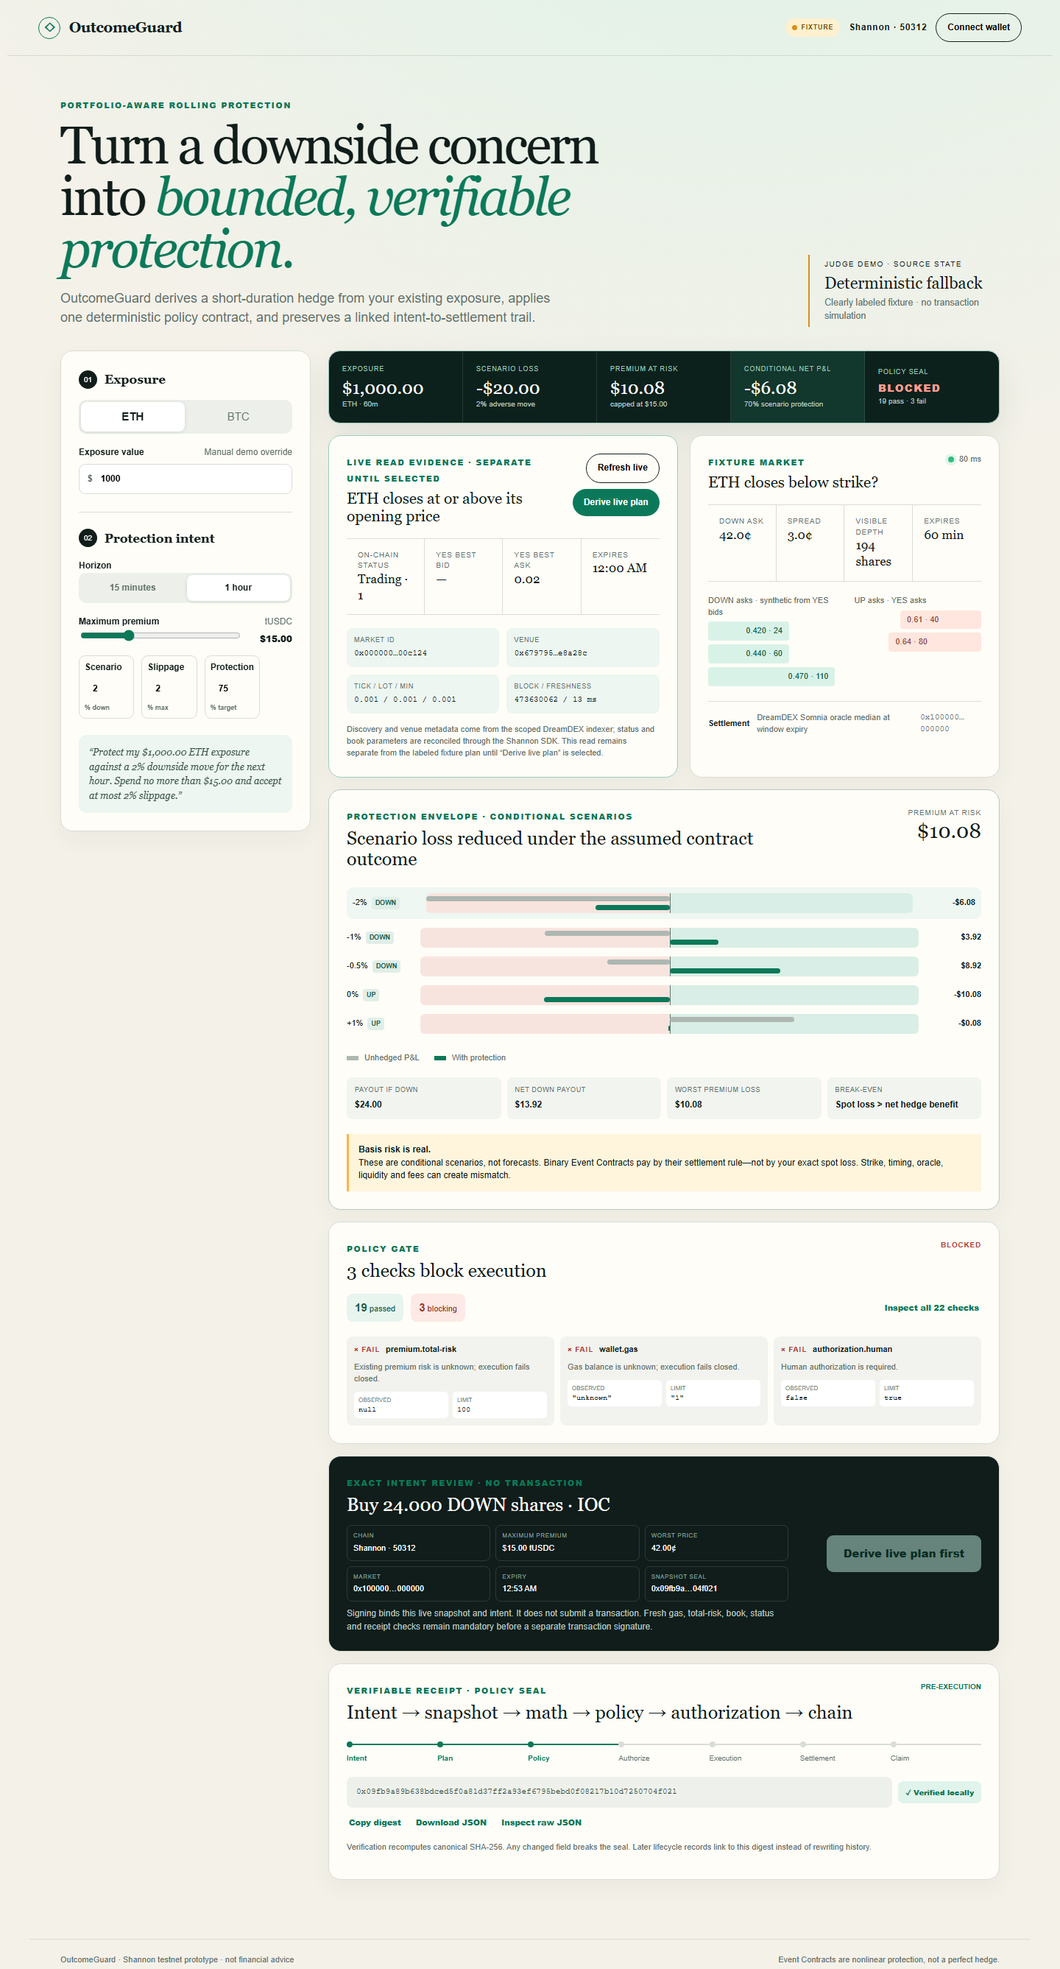
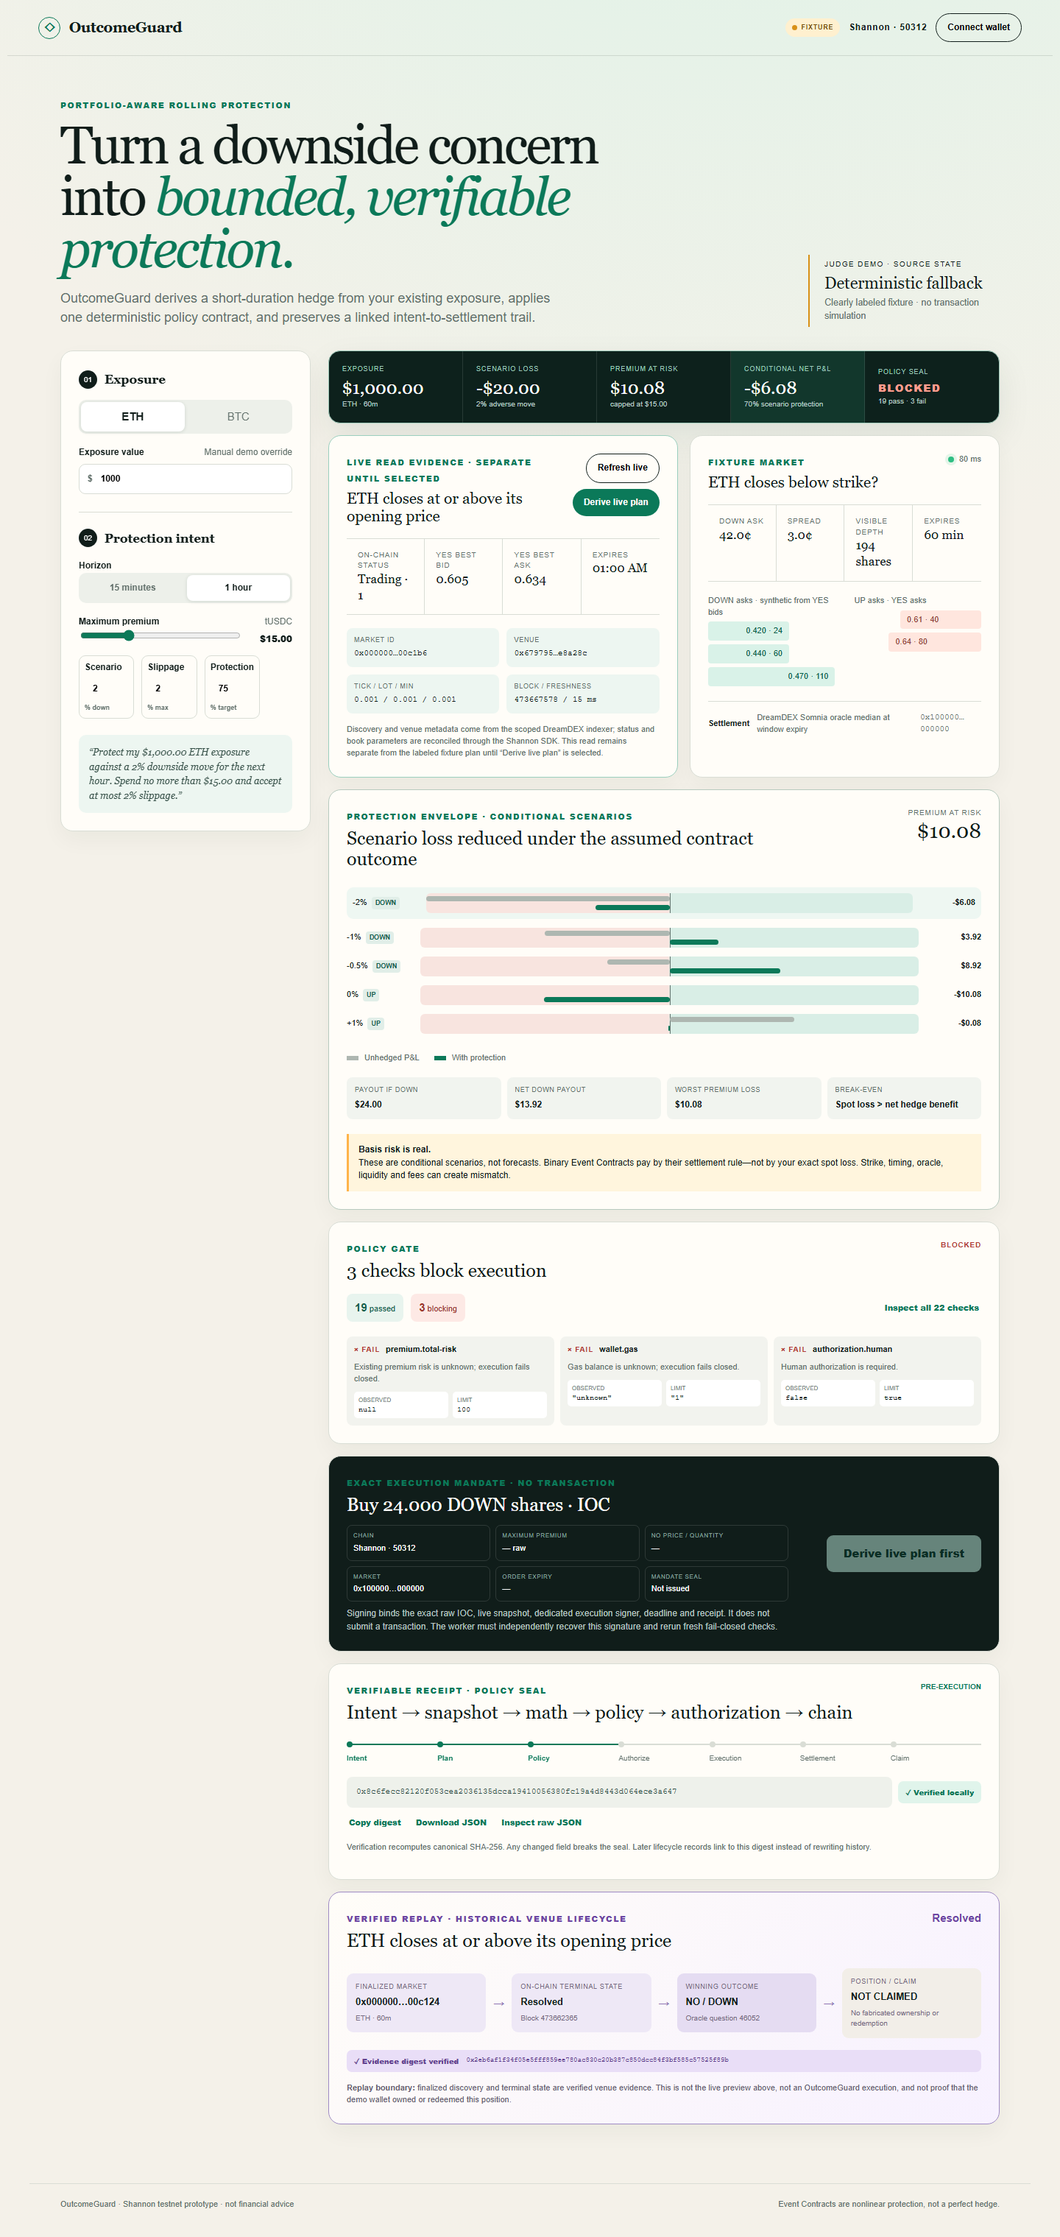
feat: add honest verified settlement replay

diff --git a/apps/web/app/page.tsx b/apps/web/app/page.tsx
@@ -10,6 +10,7 @@ type LiveSnapshot = {
   parameters: { tickSize: string; lotSize: string; minQuantity: string };
 };
 type LiveResponse = { source: "live" | "unavailable"; snapshots?: LiveSnapshot[]; error?: string };
+type SettledReplay = { label: "VERIFIED_REPLAY"; capturedAt: string; blockNumber: string; market: { marketId: string; asset: string; intervalSec: number; expiry: number; question: string; oracleQuestionId: string }; terminalState: { status: string; winningOutcome: "YES" | "NO"; portfolioMeaning: "UP" | "DOWN" }; positionEvidence: { status: string; reason: string }; redemptionEvidence: { status: string; reason: string }; integrity: { digest: string }; verification: { valid: true; computedDigest: string } };
 type EthereumProvider = { request(args: { method: string; params?: unknown[] }): Promise<unknown> };
 declare global { interface Window { ethereum?: EthereumProvider } }
 
@@ -43,6 +44,7 @@ export default function Home() {
   const [livePlanMarketId, setLivePlanMarketId] = useState<string>();
   const [showAllPolicies, setShowAllPolicies] = useState(false);
   const [showReceipt, setShowReceipt] = useState(false);
+  const [settledReplay, setSettledReplay] = useState<SettledReplay>();
 
   const refreshLive = async () => {
     setLiveLoading(true);
@@ -54,7 +56,7 @@ export default function Home() {
     } finally { setLiveLoading(false); }
   };
 
-  useEffect(() => { void refreshLive(); }, []);
+  useEffect(() => { void refreshLive(); void fetch("/api/replay").then((response) => response.json()).then((value) => setSettledReplay(value as SettledReplay)); }, []);
 
   useEffect(() => {
     const controller = new AbortController();
@@ -178,6 +180,7 @@ export default function Home() {
         <section className="authorize card"><div><span>EXACT EXECUTION MANDATE · NO TRANSACTION</span><h2>Buy {data?.plan.normalizedShares.toFixed(3) ?? "—"} DOWN shares · IOC</h2><div className="orderReview"><span><small>Chain</small>Shannon · 50312</span><span><small>Maximum premium</small>{data?.authorizationChallenge?.mandate.maximumPremiumRaw ?? "—"} raw</span><span><small>NO price / quantity</small>{data?.authorizationChallenge ? `${data.authorizationChallenge.mandate.outcomePriceRaw} / ${data.authorizationChallenge.mandate.quantityRaw}` : "—"}</span><span><small>Market</small>{data ? short(data.market.marketId) : "—"}</span><span><small>Order expiry</small>{data?.authorizationChallenge ? new Date(Number(BigInt(data.authorizationChallenge.mandate.orderExpiryNs) / 1_000_000n)).toLocaleTimeString([], { hour: "2-digit", minute: "2-digit", second: "2-digit" }) : "—"}</span><span><small>Mandate seal</small>{data?.authorizationChallenge ? short(data.authorizationChallenge.mandateDigest) : "Not issued"}</span></div><p>Signing binds the exact raw IOC, live snapshot, dedicated execution signer, deadline and receipt. It does not submit a transaction. The worker must independently recover this signature and rerun fresh fail-closed checks.</p></div><div className="authorizationActions"><button onClick={authorize} disabled={loading || data?.mode !== "live" || !data?.authorizationChallenge || authorizableFailures.length > 0}>{signature ? "Exact mandate signed ✓" : data?.mode !== "live" ? "Derive live plan first" : !data?.authorizationChallenge ? "Worker signer not configured" : "Review & sign exact mandate"}</button>{executionBundle && <button className="secondaryAction" onClick={downloadBundle}>Download signed bundle</button>}</div></section>
 
         <section className="card receipt"><div className="cardHead"><div><span>VERIFIABLE RECEIPT · POLICY SEAL</span><h2>Intent → snapshot → math → policy → authorization → chain</h2></div><b>{signature ? "AUTHORIZED" : data ? "PRE-EXECUTION" : "SEALING"}</b></div><div className="timeline"><i className={data ? "done" : ""}>Intent</i><i className={data ? "done" : ""}>Plan</i><i className={data ? "done" : ""}>Policy</i><i className={signature ? "done" : ""}>Authorize</i><i>Execution</i><i>Settlement</i><i>Claim</i></div><div className="digestRow"><code className="digest">{data?.receipt.integrity.digest ?? "Computing deterministic receipt…"}</code><span className={`verifiedBadge ${data ? "" : "pending"}`}>{data ? "✓ Verified locally" : "Verification pending"}</span></div><div className="receiptActions"><button className="textButton" onClick={() => void copyDigest()} disabled={!data}>Copy digest</button><button className="textButton" onClick={downloadReceipt} disabled={!data}>Download JSON</button><button className="textButton" onClick={() => setShowReceipt((current) => !current)} aria-expanded={showReceipt} disabled={!data}>{showReceipt ? "Close raw view" : "Inspect raw JSON"}</button></div>{showReceipt && <pre className="rawReceipt">{JSON.stringify(data?.receipt, null, 2)}</pre>}<p>Verification recomputes canonical SHA-256. Any changed field breaks the seal. Later lifecycle records link to this digest instead of rewriting history.</p></section>
+        <section className="card settledReplay"><div className="cardHead"><div><span>VERIFIED REPLAY · HISTORICAL VENUE LIFECYCLE</span><h2>{settledReplay?.market.question ?? "Loading finalized DreamDEX evidence…"}</h2></div><b>{settledReplay?.terminalState.status ?? "READING"}</b></div>{settledReplay && <><div className="replayFlow"><div><small>Finalized market</small><strong>{short(settledReplay.market.marketId)}</strong><span>{settledReplay.market.asset} · {settledReplay.market.intervalSec / 60}m</span></div><i>→</i><div><small>On-chain terminal state</small><strong>{settledReplay.terminalState.status}</strong><span>Block {settledReplay.blockNumber}</span></div><i>→</i><div className="replayOutcome"><small>Winning outcome</small><strong>{settledReplay.terminalState.winningOutcome} / {settledReplay.terminalState.portfolioMeaning}</strong><span>Oracle question {settledReplay.market.oracleQuestionId}</span></div><i>→</i><div className="notClaimed"><small>Position / claim</small><strong>NOT CLAIMED</strong><span>No fabricated ownership or redemption</span></div></div><div className="replaySeal"><span>✓ Evidence digest verified</span><code>{settledReplay.integrity.digest}</code></div><p><b>Replay boundary:</b> finalized discovery and terminal state are verified venue evidence. This is not the live preview above, not an OutcomeGuard execution, and not proof that the demo wallet owned or redeemed this position.</p></>}</section>
       </div>
     </section>
     <footer className="siteFooter"><span>OutcomeGuard · Shannon testnet prototype · not financial advice</span><span>Event Contracts are nonlinear protection, not a perfect hedge.</span></footer>

diff --git a/apps/web/app/globals.css b/apps/web/app/globals.css
@@ -29,6 +29,8 @@ button:focus-visible,a:focus-visible,input:focus-visible,summary:focus-visible {
 .orderReview { display:grid;grid-template-columns:repeat(3,minmax(0,1fr));gap:7px;margin-top:14px }.orderReview span { min-width:0;padding:8px;border:1px solid #ffffff20;border-radius:7px;font-size:11px;font-variant-numeric:tabular-nums }.orderReview small { display:block;margin-bottom:3px;color:#8fa9a0;font-size:8px;text-transform:uppercase;letter-spacing:.08em }.authorizationActions { display:flex;min-width:210px;flex-direction:column;gap:8px }.authorizationActions button { width:100% }.authorizationActions .secondaryAction { background:transparent;color:var(--mint);border:1px solid #5a786e }
 .digestRow { display:grid;grid-template-columns:1fr auto;gap:8px;align-items:center }.verifiedBadge { color:#087454;background:#e0f4eb;padding:8px 10px;border-radius:7px;font-size:10px;font-weight:800;white-space:nowrap }.verifiedBadge.pending { color:#79520c;background:#fff0cf }.receiptActions { display:flex;gap:14px;align-items:center;margin-top:5px }.textButton:disabled { color:#89948f;cursor:not-allowed;text-decoration:none }.rawReceipt { max-height:380px;overflow:auto;padding:14px;border-radius:9px;background:#0e1d19;color:#bfe7d8;font:11px/1.5 monospace;white-space:pre-wrap;overflow-wrap:anywhere }
 .card,.summaryRail { transition:transform .2s ease,box-shadow .2s ease,opacity .2s ease }.card:hover { box-shadow:0 18px 44px rgba(18,39,32,.075) }
+.settledReplay { border-color:#9f8bc4;background:linear-gradient(135deg,#fffdf8,#f7f1ff) }.settledReplay .cardHead>div>span,.settledReplay .cardHead>b { color:#6d45a3 }.replayFlow { display:grid;grid-template-columns:1fr auto 1fr auto 1fr auto 1fr;gap:10px;align-items:center;margin:24px 0 }.replayFlow>div { min-width:0;padding:12px;border-radius:9px;background:#eee8f6 }.replayFlow small,.replayFlow span { display:block }.replayFlow small { color:#756a83;font-size:9px;text-transform:uppercase;letter-spacing:.08em }.replayFlow strong { display:block;margin:5px 0;font-size:13px;overflow:hidden;text-overflow:ellipsis }.replayFlow span { color:#756a83;font-size:10px }.replayFlow>i { color:#8c72b1;font-style:normal }.replayFlow .replayOutcome { background:#e5dcf2 }.replayFlow .notClaimed { background:#f2eee8 }.settledReplay>p { margin:0;color:#675d71;font-size:11px }
+.replaySeal { display:flex;align-items:center;gap:10px;margin:-8px 0 14px;padding:8px 10px;border-radius:7px;background:#e9def7;color:#62408f;font-size:10px;font-weight:800 }.replaySeal code { min-width:0;overflow:hidden;text-overflow:ellipsis;font-size:9px;font-weight:400 }
 @media (max-width:1100px) { .summaryRail{grid-template-columns:repeat(3,1fr)}.summaryRail>div:nth-child(3){border-right:0}.evidenceGrid{grid-template-columns:1fr}.outcomeFacts{grid-template-columns:1fr 1fr} }
-@media (max-width:520px) { nav{padding-inline:9px}.brand{font-size:14px;white-space:nowrap}.shield{width:21px;height:21px;margin-right:3px}.network{font-size:8px;white-space:nowrap}.sourcePill{display:inline-flex;padding:4px 6px;font-size:7px}.navMeta{font-size:9px;gap:5px}.navMeta .ghost{padding:8px 7px;font-size:9px}.summaryRail{grid-template-columns:1fr 1fr}.summaryRail>div{padding:13px}.summaryRail>div:nth-child(even){border-right:0}.summaryRail .verdict{grid-column:1/-1}.summaryRail strong{font-size:20px}.evidenceGrid{grid-template-columns:1fr}.liveActions{justify-content:flex-start}.cardHead{flex-direction:column}.outcomeFacts{grid-template-columns:1fr 1fr}.scenario{grid-template-columns:78px 1fr 62px}.policySummary{flex-wrap:wrap}.policySummary .textButton{margin-left:0;width:100%;text-align:left}.orderReview{grid-template-columns:1fr 1fr}.digestRow{grid-template-columns:1fr}.receiptActions{flex-wrap:wrap}.authorize{gap:18px}.authorizationActions{width:100%} }
+@media (max-width:520px) { nav{padding-inline:9px}.brand{font-size:14px;white-space:nowrap}.shield{width:21px;height:21px;margin-right:3px}.network{font-size:8px;white-space:nowrap}.sourcePill{display:inline-flex;padding:4px 6px;font-size:7px}.navMeta{font-size:9px;gap:5px}.navMeta .ghost{padding:8px 7px;font-size:9px}.summaryRail{grid-template-columns:1fr 1fr}.summaryRail>div{padding:13px}.summaryRail>div:nth-child(even){border-right:0}.summaryRail .verdict{grid-column:1/-1}.summaryRail strong{font-size:20px}.evidenceGrid{grid-template-columns:1fr}.liveActions{justify-content:flex-start}.cardHead{flex-direction:column}.outcomeFacts{grid-template-columns:1fr 1fr}.scenario{grid-template-columns:78px 1fr 62px}.policySummary{flex-wrap:wrap}.policySummary .textButton{margin-left:0;width:100%;text-align:left}.orderReview{grid-template-columns:1fr 1fr}.digestRow{grid-template-columns:1fr}.receiptActions{flex-wrap:wrap}.authorize{gap:18px}.authorizationActions{width:100%}.replayFlow{grid-template-columns:1fr}.replayFlow>i{transform:rotate(90deg);text-align:center} }
 @media (prefers-reduced-motion:reduce) { *,*::before,*::after { scroll-behavior:auto!important;animation-duration:.01ms!important;transition-duration:.01ms!important } }

diff --git a/tests/e2e/judge-flow.spec.ts b/tests/e2e/judge-flow.spec.ts
@@ -13,6 +13,9 @@ test("judge can compose and inspect bounded protection", async ({ page }) => {
   await expect(page.getByText("Basis risk is real.")).toBeVisible();
   await expect(page.getByText("PRE-EXECUTION")).toBeVisible();
   await expect(page.locator(".digest")).toContainText(/^0x[0-9a-f]{64}$/);
+  await expect(page.getByText(/VERIFIED REPLAY/)).toBeVisible();
+  await expect(page.locator(".settledReplay")).toContainText("NO / DOWN");
+  await expect(page.locator(".settledReplay")).toContainText("No fabricated ownership or redemption");
 });
 
 test("truth labels, policy drill-down, receipt inspection, and mobile width remain safe", async ({ page }) => {
@@ -37,4 +40,7 @@ test("health identifies network and honest mode", async ({ request }) => {
   const response = await request.get("/api/health");
   expect(response.ok()).toBe(true);
   await expect(response.json()).resolves.toMatchObject({ ok: true, chainId: 50312, network: "somnia-shannon" });
+  const replay = await request.get("/api/replay");
+  expect(replay.ok()).toBe(true);
+  await expect(replay.json()).resolves.toMatchObject({ label: "VERIFIED_REPLAY", terminalState: { status: "Resolved", winningOutcome: "NO" }, redemptionEvidence: { status: "NOT_PERFORMED" }, verification: { valid: true } });
 });

diff --git a/apps/web/app/api/replay/route.ts b/apps/web/app/api/replay/route.ts
@@ -1,0 +1,9 @@
+import replay from "../../../../../docs/evidence/verified-settled-replay.json";
+import { canonicalize, sha256 } from "@outcome-guard/receipt";
+
+export async function GET() {
+  const { integrity, ...payload } = replay;
+  const computedDigest = sha256(canonicalize(payload));
+  if (computedDigest.toLowerCase() !== integrity.digest.toLowerCase()) return Response.json({ error: "Verified replay integrity check failed" }, { status: 500 });
+  return Response.json({ ...replay, verification: { valid: true, computedDigest } }, { headers: { "cache-control": "public, max-age=300, immutable" } });
+}

diff --git a/README.md b/README.md
@@ -84,10 +84,11 @@ The repository contains a real **live-read** Shannon snapshot captured on 28 Aug
 - Deterministic plan from that book: [`docs/evidence/hedge-plan.json`](docs/evidence/hedge-plan.json)
 - Policy result: [`docs/evidence/policy-evaluation.json`](docs/evidence/policy-evaluation.json)
 - Pre-execution receipt: [`docs/evidence/pre-execution-receipt.json`](docs/evidence/pre-execution-receipt.json)
+- Verified terminal-market replay: [`docs/evidence/verified-settled-replay.json`](docs/evidence/verified-settled-replay.json)
 
 The latest captured market was ETH, one hour, Shannon chain `50312`, market ID ending `bcbe`, block `473363505`, and onchain status `Trading`. Market and plan checks passed; existing premium risk, gas balance, and human approval were unknown or absent, so execution correctly failed closed. See the full values in the linked evidence rather than relying on a summary.
 
-**No transaction, fill, reconciled position, settlement, or redemption is claimed yet.** The placeholder lifecycle files explicitly record `NOT_PERFORMED`: [`execution-receipt.json`](docs/evidence/execution-receipt.json) and [`settlement-receipt.json`](docs/evidence/settlement-receipt.json).
+The Judge Demo also shows a separately labeled historical venue lifecycle: ETH 1h market `…c124`, resolved on chain at captured block `473662365` with winning outcome `NO / DOWN`. It proves finalized-market discovery and terminal-state interpretation only. **No OutcomeGuard ownership, transaction, fill, reconciled position, or redemption is claimed yet.** The placeholder lifecycle files explicitly record `NOT_PERFORMED`: [`execution-receipt.json`](docs/evidence/execution-receipt.json) and [`settlement-receipt.json`](docs/evidence/settlement-receipt.json).
 
 ## 9. Receipt verification
 
@@ -152,7 +153,7 @@ npm run verify
 
 It composes lint, strict type checking, unit/property tests, production build, Playwright E2E, working-tree secret scanning, and dependency audit. Individual commands are in [`package.json`](package.json).
 
-**Checkpoint truth:** `npm run verify` passed locally on 28 August 2026: lint, strict workspace type checks, 25 Vitest tests, production builds, six Playwright checks across desktop and 390 px mobile, a 101-file working-tree secret scan, and an npm audit with zero known vulnerabilities. See [`docs/evidence/test-report.md`](docs/evidence/test-report.md).
+**Checkpoint truth:** `npm run verify` passed locally on 28 August 2026: lint, strict workspace type checks, 25 Vitest tests, production builds, six Playwright checks across desktop and 390 px mobile, a 106-file working-tree secret scan, and an npm audit with zero known vulnerabilities. See [`docs/evidence/test-report.md`](docs/evidence/test-report.md).
 
 ## 14. Security model
 

diff --git a/docs/evidence/test-report.md b/docs/evidence/test-report.md
@@ -1,6 +1,6 @@
 # Local release-gate report
 
-Date: 2026-08-28 17:40 UTC
+Date: 2026-08-28 17:55 UTC
 Environment: Windows, Node `v24.14.1`, npm `11.11.0`  
 Command: `npm run verify`
 
@@ -17,7 +17,7 @@ Command: `npm run verify`
 | Desktop judge flow | pass | 3 Playwright Chromium checks, 1440 px |
 | Mobile judge flow | pass | 3 Playwright Chromium checks, 390 px; overflow and reduced-motion assertions included |
 | Health endpoint checks | pass | both Playwright projects against the production server |
-| Working-tree secret scan | pass | 101 files at run time |
+| Working-tree secret scan | pass | 106 files at run time |
 | Full-history secret scan | pass | Gitleaks 8.30.1 scanned 8 commits / ~818 KB; exact public-contract false-positive allowlist only |
 | Dependency audit | pass | `found 0 vulnerabilities` |
 | Clean install | pass | final lockfile installed with `npm ci` |
@@ -35,6 +35,7 @@ Additional checks:
 - DreamDEX order construction checks both outcome and transmitted YES tick grids. Live snapshots directly read ERC-20 metadata and fail if collateral decimals disagree; pool-scoped events distinguish `OrderPlaced` from actual `OrderRested` evidence.
 - Durable journal tests cover restart hash-chain verification, exclusive signer locking, changed/torn record refusal, absolute-path enforcement, and 25 concurrent appends with unique ordered sequence numbers. Explicit nonce/raw-transaction recovery and crash-injection evidence remain excluded.
 - Fixture worker started without a key in `DRY_RUN=true`, returned healthy on `/health`, produced structured logs, and observed one deterministic market.
+- Finalized-market discovery and a direct on-chain read captured ETH one-hour market `…c124` at block `473662365` as `Resolved`, winning `NO / DOWN`. The UI verifies its evidence digest and explicitly claims no owned position or redemption.
 
 ## Honest exclusions
 

diff --git a/LIMITATIONS.md b/LIMITATIONS.md
@@ -36,7 +36,7 @@ Snapshot date: 2026-08-29. These limitations describe the current repository, no
 - A valid digest proves that a receipt has not changed under the specified canonicalization. It does not prove every assertion in the receipt is true.
 - Independent provenance requires chain receipts, decoded expected events, market state, and position reconciliation. Pre-execution evidence alone cannot prove execution.
 - The receipt explorer serves evidence artifacts packaged with the deployment; it is not a decentralized or complete receipt index.
-- Historical replay is only acceptable with real source hashes and provenance. The current repository does not yet include a verified settled replay package.
+- The repository includes one chain-reconciled finalized market as a verified venue replay. It has no OutcomeGuard position, transaction, or redemption evidence and is labeled accordingly; it cannot satisfy Gate 5 ownership/redemption proof by itself.
 - Evidence was captured from a working tree and identifies its commit as `working-tree-uncommitted`. Release evidence must be regenerated from the exact public commit.
 
 ## Security and operations

diff --git a/SUBMISSION.md b/SUBMISSION.md
@@ -64,6 +64,8 @@ The captured live plan passes the market and sizing controls. Execution remains 
 
 No order, fill, settlement, or redemption is yet claimed. The repository says so explicitly in [execution evidence](docs/evidence/execution-receipt.json) and [settlement evidence](docs/evidence/settlement-receipt.json).
 
+For judge continuity, a separate [verified settled replay](docs/evidence/verified-settled-replay.json) records a real DreamDEX ETH one-hour market at Shannon block `473662365`, resolved `NO / DOWN`. It demonstrates finalized discovery and terminal-state interpretation only; it does not claim OutcomeGuard owned or redeemed a position.
+
 ## Differentiation
 
 OutcomeGuard is not a prediction chatbot, agent evaluator, copy-trading product, game, firm-liquidity primitive, conditional thesis sequencer, or safe-size terminal. It starts from portfolio exposure and derives bounded protection.
